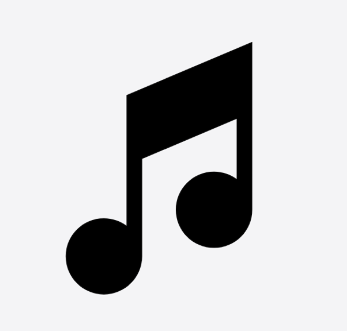
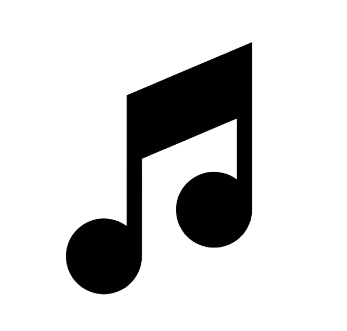
[dyad] Atualizando ícones das categorias com versões transparentes - wrote 6 file(s)

diff --git a/src/pages/Index.tsx b/src/pages/Index.tsx
@@ -13,7 +13,7 @@ import Footer from '@/components/Footer';
 import CategoryCard from '@/components/CategoryCard';
 import { Button } from '@/components/ui/button';
 
-// Importando os novos ícones
+// Importando os ícones atualizados
 import iconMusica from '@/assets/icon-musica.png';
 import iconVisuais from '@/assets/icon-visuais.png';
 import iconCenicas from '@/assets/icon-cenicas.png';
